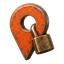
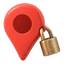
Add files via upload

diff --git a/index.html b/index.html
@@ -600,11 +600,24 @@ footer{padding-block:40px 48px; color:var(--muted); font-size:14px; border-top:1
 .d-ico{width:44px !important; height:44px !important; border-radius:13px !important}
 .d-tile .d-ico{width:54px !important; height:54px !important}
 .d-tile .d-ico .hz3d{width:48px; height:48px}
+
+
+
+/* ---- Colores universales (2-oct-2026): estrellas amarillas y pin rojo, siempre ---- */
+:root{--estrella:#FBBC04; --estrella-vacia:#DADCE0}
+@media (prefers-color-scheme: dark){:root:not([data-theme="light"]){--estrella-vacia:#4A443E}}
+:root[data-theme="dark"]{--estrella-vacia:#4A443E}
+.hz-est,.d-bigstars{color:var(--estrella)}
+.d-qm .hz{color:var(--estrella)}
+.d-stars button,.d-stars button .hz{color:var(--estrella-vacia)}
+.d-stars button.on,.d-stars button.on .hz{color:var(--estrella)}
+.d-stars button:hover .hz{transform:scale(1.08)}
+/* ---- fin colores universales ---- */
 </style>
 <script type="application/ld+json" id="hz-seo">{"@context":"https://schema.org","@graph":[{"@type":"WebSite","name":"Hazlo Ahora","url":"https://hazlochile.com/","inLanguage":"es-CL","publisher":{"@type":"Organization","name":"Hazlo Ahora","url":"https://hazlochile.com/"}},{"@type":"FAQPage","mainEntity":[{"@type":"Question","name":"¿Cuándo puedo usar Hazlo Ahora?","acceptedAnswer":{"@type":"Answer","text":"Estamos terminando las pruebas con usuarios reales. Partimos en el Gran Santiago con gásfiter, electricistas y cerrajeros, y después vamos sumando más oficios y el resto de Chile. Si te anotas, te avisamos antes que a nadie."}},{"@type":"Question","name":"¿Cuánto cuesta para el cliente?","acceptedAnswer":{"@type":"Answer","text":"Nada. Descargar la app, pedir y comparar precios es gratis. Pagas solo el trabajo que aceptaste, directo al profesional."}},{"@type":"Question","name":"¿Cómo sé que puedo confiar en quien llega a mi casa?","acceptedAnswer":{"@type":"Answer","text":"Porque lo conocemos antes que tú: cada profesional verifica su cédula con una selfie, presenta su certificado de antecedentes y sube fotos de trabajos reales de su oficio, y nuestro equipo lo revisa. En salud, cuidado de personas, gas y otros oficios sensibles pedimos además el título o la licencia. Antes de elegir ves sus estrellas, su presentación y fotos de sus trabajos."}},{"@type":"Question","name":"¿Quiénes están detrás de Hazlo Ahora?","acceptedAnswer":{"@type":"Answer","text":"Somos HAZLO AHORA SpA, una empresa chilena con sede en Santiago. Detrás de la app hay un equipo que revisa cada perfil, responde en soporte@hazlochile.com y sigue sumando oficios con lo que ustedes nos piden."}},{"@type":"Question","name":"¿Tengo que dar mi teléfono o mi dirección?","acceptedAnswer":{"@type":"Answer","text":"Tu teléfono nunca se comparte: todo se conversa por el chat de la app, que oculta números y correos. Tu dirección exacta la ve solo el profesional que aceptaste, y la ubicación en vivo se borra cuando termina el trabajo."}},{"@type":"Question","name":"¿Puedo agendar para otro día?","acceptedAnswer":{"@type":"Answer","text":"Sí. Todos los servicios se pueden pedir al tiro o agendados, hasta 30 días antes y a cualquier hora, también de noche: un coffee break a las 7 de la mañana o garzones para un cumpleaños hasta las 2 de la madrugada."}},{"@type":"Question","name":"¿Cómo pago? ¿Aceptan tarjeta?","acceptedAnswer":{"@type":"Answer","text":"Le pagas directo al profesional al terminar, en efectivo o con tarjeta. El pago con tarjeta dentro de la app viene más adelante."}},{"@type":"Question","name":"Soy profesional, ¿cuánto me cobra Hazlo Ahora?","acceptedAnswer":{"@type":"Answer","text":"Tus primeros 2 meses desde que te inscribes en la app, nada: es nuestra bienvenida. Después, un 10 % del trabajo, con IVA incluido, y solo cuando haces el trabajo. No hay mensualidad ni costo por inscribirte, y las propinas son 100 % tuyas. Todo el detalle está en Soporte."}},{"@type":"Question","name":"¿En qué celulares funciona?","acceptedAnswer":{"@type":"Answer","text":"En Android y iPhone. Son dos apps: Hazlo Ahora, para pedir servicios, y Hazlo Ahora Pro, para quienes trabajan."}}]}]}</script>
 </head>
 <body>
-<svg xmlns="http://www.w3.org/2000/svg" width="0" height="0" style="position:absolute" aria-hidden="true" focusable="false"><symbol id="hz-camara" viewBox="0 0 24 24"><g transform="translate(1.3 1.3)" style="fill:var(--hz-f,currentColor);stroke:none"><circle cx="12" cy="13.5" r="3.6"/></g><g style="fill:none;stroke:var(--hz-l,var(--ink,#1A1714));stroke-width:1.8;stroke-linecap:round;stroke-linejoin:round"><rect x="3" y="7" width="18" height="13" rx="2.5"/><path d="m8.5 7 1.3-2.5h4.4L15.5 7"/><circle cx="12" cy="13.5" r="3.6"/><path d="M17.6 10.2h.01"/></g></symbol><symbol id="hz-candado" viewBox="0 0 24 24"><g transform="translate(1.3 1.3)" style="fill:var(--hz-f,currentColor);stroke:none"><rect x="5.5" y="11" width="13" height="10" rx="2.2"/></g><g style="fill:none;stroke:var(--hz-l,var(--ink,#1A1714));stroke-width:1.8;stroke-linecap:round;stroke-linejoin:round"><path d="M8 11V8a4 4 0 0 1 8 0v3"/><rect x="5.5" y="11" width="13" height="10" rx="2.2"/><path d="M12 15v2.2"/></g></symbol><symbol id="hz-ubicacion" viewBox="0 0 24 24"><g transform="translate(1.3 1.3)" style="fill:var(--hz-f,currentColor);stroke:none"><path d="M12 21.5S5.5 15.2 5.5 10a6.5 6.5 0 0 1 13 0c0 5.2-6.5 11.5-6.5 11.5z"/></g><g style="fill:none;stroke:var(--hz-l,var(--ink,#1A1714));stroke-width:1.8;stroke-linecap:round;stroke-linejoin:round"><path d="M12 21.5S5.5 15.2 5.5 10a6.5 6.5 0 0 1 13 0c0 5.2-6.5 11.5-6.5 11.5z"/><circle cx="12" cy="10" r="2.4"/></g></symbol><symbol id="hz-buscar" viewBox="0 0 24 24"><g transform="translate(1.3 1.3)" style="fill:var(--hz-f,currentColor);stroke:none"><circle cx="10.5" cy="10.5" r="6.3"/></g><g style="fill:none;stroke:var(--hz-l,var(--ink,#1A1714));stroke-width:1.8;stroke-linecap:round;stroke-linejoin:round"><circle cx="10.5" cy="10.5" r="6.3"/><path d="m15.2 15.2 5.3 5.3"/></g></symbol><symbol id="hz-visto" viewBox="0 0 24 24"><g transform="translate(1.3 1.3)" style="fill:var(--hz-f,currentColor);stroke:none"><circle cx="12" cy="12" r="8.6"/></g><g style="fill:none;stroke:var(--hz-l,var(--ink,#1A1714));stroke-width:1.8;stroke-linecap:round;stroke-linejoin:round"><circle cx="12" cy="12" r="8.6"/><path d="m7.9 12.3 2.8 2.8 5.4-5.7"/></g></symbol><symbol id="hz-estrella" viewBox="0 0 24 24"><g transform="translate(1.3 1.3)" style="fill:var(--hz-f,currentColor);stroke:none"><path d="M12 3.3 14.6 8.7 20.5 9.4 16.1 13.4 17.3 19.3 12 16.4 6.7 19.3 7.9 13.4 3.5 9.4 9.4 8.7z"/></g><g style="fill:none;stroke:var(--hz-l,var(--ink,#1A1714));stroke-width:1.8;stroke-linecap:round;stroke-linejoin:round"><path d="M12 3.3 14.6 8.7 20.5 9.4 16.1 13.4 17.3 19.3 12 16.4 6.7 19.3 7.9 13.4 3.5 9.4 9.4 8.7z"/></g></symbol><symbol id="hz-tic" viewBox="0 0 24 24"><g transform="translate(1.3 1.3)" style="fill:var(--hz-f,currentColor);stroke:none"></g><g style="fill:none;stroke:var(--hz-l,var(--ink,#1A1714));stroke-width:1.8;stroke-linecap:round;stroke-linejoin:round"><path d="m5.5 12.6 4.1 4.1 8.9-9.3"/></g></symbol></svg>
+<svg xmlns="http://www.w3.org/2000/svg" width="0" height="0" style="position:absolute" aria-hidden="true" focusable="false"><symbol id="hz-camara" viewBox="0 0 24 24"><g transform="translate(1.3 1.3)" style="fill:var(--hz-f,currentColor);stroke:none"><circle cx="12" cy="13.5" r="3.6"/></g><g style="fill:none;stroke:var(--hz-l,var(--ink,#1A1714));stroke-width:1.8;stroke-linecap:round;stroke-linejoin:round"><rect x="3" y="7" width="18" height="13" rx="2.5"/><path d="m8.5 7 1.3-2.5h4.4L15.5 7"/><circle cx="12" cy="13.5" r="3.6"/><path d="M17.6 10.2h.01"/></g></symbol><symbol id="hz-candado" viewBox="0 0 24 24"><g transform="translate(1.3 1.3)" style="fill:var(--hz-f,currentColor);stroke:none"><rect x="5.5" y="11" width="13" height="10" rx="2.2"/></g><g style="fill:none;stroke:var(--hz-l,var(--ink,#1A1714));stroke-width:1.8;stroke-linecap:round;stroke-linejoin:round"><path d="M8 11V8a4 4 0 0 1 8 0v3"/><rect x="5.5" y="11" width="13" height="10" rx="2.2"/><path d="M12 15v2.2"/></g></symbol><symbol id="hz-ubicacion" viewBox="0 0 24 24"><g transform="translate(1.3 1.3)" style="fill:var(--hz-f,currentColor);stroke:none"><path d="M12 21.5S5.5 15.2 5.5 10a6.5 6.5 0 0 1 13 0c0 5.2-6.5 11.5-6.5 11.5z"/></g><g style="fill:none;stroke:var(--hz-l,var(--ink,#1A1714));stroke-width:1.8;stroke-linecap:round;stroke-linejoin:round"><path d="M12 21.5S5.5 15.2 5.5 10a6.5 6.5 0 0 1 13 0c0 5.2-6.5 11.5-6.5 11.5z"/><circle cx="12" cy="10" r="2.4"/></g></symbol><symbol id="hz-buscar" viewBox="0 0 24 24"><g transform="translate(1.3 1.3)" style="fill:var(--hz-f,currentColor);stroke:none"><circle cx="10.5" cy="10.5" r="6.3"/></g><g style="fill:none;stroke:var(--hz-l,var(--ink,#1A1714));stroke-width:1.8;stroke-linecap:round;stroke-linejoin:round"><circle cx="10.5" cy="10.5" r="6.3"/><path d="m15.2 15.2 5.3 5.3"/></g></symbol><symbol id="hz-visto" viewBox="0 0 24 24"><g transform="translate(1.3 1.3)" style="fill:var(--hz-f,currentColor);stroke:none"><circle cx="12" cy="12" r="8.6"/></g><g style="fill:none;stroke:var(--hz-l,var(--ink,#1A1714));stroke-width:1.8;stroke-linecap:round;stroke-linejoin:round"><circle cx="12" cy="12" r="8.6"/><path d="m7.9 12.3 2.8 2.8 5.4-5.7"/></g></symbol><symbol id="hz-estrella" viewBox="0 0 24 24"><g transform="translate(1.3 1.3)" style="fill:var(--hz-f,currentColor);stroke:none"><path d="M12 3.3 14.6 8.7 20.5 9.4 16.1 13.4 17.3 19.3 12 16.4 6.7 19.3 7.9 13.4 3.5 9.4 9.4 8.7z"/></g><g style="fill:none;stroke:var(--hz-l,var(--ink,#1A1714));stroke-width:1.8;stroke-linecap:round;stroke-linejoin:round"><path d="M12 3.3 14.6 8.7 20.5 9.4 16.1 13.4 17.3 19.3 12 16.4 6.7 19.3 7.9 13.4 3.5 9.4 9.4 8.7z"/></g></symbol><symbol id="hz-tic" viewBox="0 0 24 24"><g transform="translate(1.3 1.3)" style="fill:var(--hz-f,currentColor);stroke:none"></g><g style="fill:none;stroke:var(--hz-l,var(--ink,#1A1714));stroke-width:1.8;stroke-linecap:round;stroke-linejoin:round"><path d="m5.5 12.6 4.1 4.1 8.9-9.3"/></g></symbol><symbol id="hz-estrella-llena" viewBox="0 0 24 24"><path d="M12.00 2.70L14.70 9.18L21.70 9.75L16.37 14.32L18.00 21.15L12.00 17.50L6.00 21.15L7.63 14.32L2.30 9.75L9.30 9.18Z" fill="currentColor" stroke="currentColor" stroke-width="1.6" stroke-linejoin="round"/></symbol><symbol id="hz-pin" viewBox="0 0 24 24"><path d="M12 22.5C10.8 20.2 4.5 14.6 4.5 9a7.5 7.5 0 0 1 15 0c0 5.6-6.3 11.2-7.5 13.5z" fill="#EA4335" stroke="#C5221F" stroke-width=".8"/><circle cx="12" cy="9" r="2.9" fill="#B31412"/></symbol></svg>
 
 <header class="bar">
   <div class="wrap bar-in">
@@ -649,7 +662,7 @@ footer{padding-block:40px 48px; color:var(--muted); font-size:14px; border-top:1
           <div class="ask-f">
             <label for="p-comuna">¿Dónde?</label>
             <div class="ask-in">
-              <svg class="hz" width="19" height="19" aria-hidden="true" focusable="false"><use href="#hz-ubicacion"/></svg>
+              <svg class="hz" width="19" height="19" aria-hidden="true" focusable="false"><use href="#hz-pin"/></svg>
               <input id="p-comuna" type="text" placeholder="Tu comuna" maxlength="40" autocomplete="address-level2">
             </div>
           </div>
@@ -1106,7 +1119,7 @@ footer{padding-block:40px 48px; color:var(--muted); font-size:14px; border-top:1
   }
   function hzEstrellas(n, s) {
     var sp = document.createElement('span'); sp.className = 'hz-est';
-    for (var i = 0; i < n; i++) sp.appendChild(hzIco('estrella', s || 16));
+    for (var i = 0; i < n; i++) sp.appendChild(hzIco('estrella-llena', s || 16));
     return sp;
   }
   function el(tag, cls, txt) {
@@ -1503,7 +1516,7 @@ footer{padding-block:40px 48px; color:var(--muted); font-size:14px; border-top:1
     '<path class="m-calle" d="M0 30H300M0 78H300M0 126H300M52 0V150M142 0V150M232 0V150"/>' +
     '<path class="m-ruta" id="d-ruta" d="M18 126H142V78H232V30H272"/>' +
     '<path class="m-hecha" id="d-hecha" d="M18 126H142V78H232V30H272"/>' +
-    '<circle class="m-casa" cx="272" cy="30" r="9"/><circle cx="272" cy="30" r="3" fill="#fff"/>' +
+    '<g transform="translate(272 30) scale(1.15) translate(-12 -22.5)"><ellipse cx="12" cy="22.6" rx="3.2" ry="1.1" fill="rgba(0,0,0,.18)"/><path d="M12 22.5C10.8 20.2 4.5 14.6 4.5 9a7.5 7.5 0 0 1 15 0c0 5.6-6.3 11.2-7.5 13.5z" fill="#EA4335" stroke="#C5221F" stroke-width=".8"/><circle cx="12" cy="9" r="2.9" fill="#B31412"/></g>' +
     '<g id="d-mk"><circle class="m-halo" r="16"/><circle class="m-yo" r="8"/></g></svg>';
   var MARCA = '<svg width="14" height="14" viewBox="0 0 64 64" aria-hidden="true"><path d="M35 13 19 35h11l-2 16 17-23H33z" fill="#fff"/></svg>';
   var LUPA = '<svg class="hz" width="18" height="18" aria-hidden="true" focusable="false"><use href="#hz-buscar"/></svg>';
@@ -1623,7 +1636,7 @@ footer{padding-block:40px 48px; color:var(--muted); font-size:14px; border-top:1
     return h('article', { class: 'd-q', 'aria-label': 'Cotización de ' + q.nombre }, [
       h('div', { class: 'd-qtop' }, [
         h('span', { class: 'd-av', 'aria-hidden': 'true' }, [q.ini]),
-        h('div', null, [h('p', { class: 'd-qn' }, [q.nombre]), h('p', { class: 'd-qm' }, (q.st ? [hzIco('estrella', 13), q.st + ' (' + q.tr + ' trabajos)'] : ['Nuevo en Hazlo Ahora']))]),
+        h('div', null, [h('p', { class: 'd-qn' }, [q.nombre]), h('p', { class: 'd-qm' }, (q.st ? [hzIco('estrella-llena', 13), q.st + ' (' + q.tr + ' trabajos)'] : ['Nuevo en Hazlo Ahora']))]),
         h('p', { class: 'd-amt' }, [plata(q.precio), h('small', null, [cuando])])
       ]),
       h('div', { class: 'd-seals' }, sellos.map(function (x) { return h('span', { class: 'd-seal' }, [hzIco('visto', 15), x]); })),
@@ -1859,7 +1872,7 @@ footer{padding-block:40px 48px; color:var(--muted); font-size:14px; border-top:1
           h('div', { class: 'd-stars', role: 'group', 'aria-labelledby': 'd-st-l' }, [1, 2, 3, 4, 5].map(function (n) {
             return h('button', { type: 'button', class: n <= D.estrellas ? 'on' : '', 'aria-pressed': String(n === D.estrellas),
               'aria-label': n + (n === 1 ? ' estrella' : ' estrellas'), 'data-k': 's' + n,
-              onclick: function () { D.estrellas = n; D.faltaEstrellas = false; render(); } }, [hzIco('estrella', 30)]);
+              onclick: function () { D.estrellas = n; D.faltaEstrellas = false; render(); } }, [hzIco('estrella-llena', 30)]);
           })),
           D.faltaEstrellas ? h('p', { class: 'd-err', role: 'alert' }, ['Elige de 1 a 5 estrellas.']) : null
         ],
@@ -1944,7 +1957,7 @@ footer{padding-block:40px 48px; color:var(--muted); font-size:14px; border-top:1
     '<path class="m-calle" d="M0 30H300M0 78H300M0 126H300M52 0V150M142 0V150M232 0V150"/>' +
     '<path class="m-ruta" id="pd-ruta" d="M28 30H142V78H232V126H274"/>' +
     '<path class="m-hecha" id="pd-hecha" d="M28 30H142V78H232V126H274"/>' +
-    '<circle class="m-casa" cx="274" cy="126" r="9"/><circle cx="274" cy="126" r="3" fill="#fff"/>' +
+    '<g transform="translate(274 126) scale(1.15) translate(-12 -22.5)"><ellipse cx="12" cy="22.6" rx="3.2" ry="1.1" fill="rgba(0,0,0,.18)"/><path d="M12 22.5C10.8 20.2 4.5 14.6 4.5 9a7.5 7.5 0 0 1 15 0c0 5.6-6.3 11.2-7.5 13.5z" fill="#EA4335" stroke="#C5221F" stroke-width=".8"/><circle cx="12" cy="9" r="2.9" fill="#B31412"/></g>' +
     '<g id="pd-mk"><circle class="m-halo" r="16"/><circle class="m-yo" r="8"/></g></svg>';
 
   function servicioPro(c) {
@@ -2130,7 +2143,7 @@ footer{padding-block:40px 48px; color:var(--muted); font-size:14px; border-top:1
             h('span', null, [nom() + ' está comparando cotizaciones. Ve tus estrellas, tu presentación y fotos de tus trabajos.'])]));
         } else {
           cuerpo.unshift(h('div', { class: 'd-okc', 'aria-hidden': 'true' }, [hzIco('visto', 60)]));
-          cuerpo.push(h('div', { class: 'd-lock d-open' }, [hzIco('ubicacion', 18),
+          cuerpo.push(h('div', { class: 'd-lock d-open' }, [hzIco('pin', 18),
             h('span', null, [h('b', null, ['Ahora ves la dirección exacta en ' + c.com + '. ']), 'Pueden conversar por el chat de la app, sin dar teléfonos.'])]));
           cuerpo.push(h('p', { class: 'd-note' }, ['Si ' + nom() + ' cancela después de que marcas «Voy en camino», recibes $2.000 por tu tiempo.']));
         }

diff --git a/pro/index.html b/pro/index.html
@@ -620,11 +620,24 @@ footer{padding-block:40px 48px; color:var(--muted); font-size:14px; border-top:1
 .sii{display:flex; gap:14px; align-items:center; background:var(--card); border:1.5px solid var(--line); border-radius:20px; padding:16px 18px; margin-top:16px}
 .sii img{flex:none}
 .sii p{font-size:15px; color:var(--ink-soft)} .sii p a{color:var(--brand-dark); font-weight:700}
+
+
+
+/* ---- Colores universales (2-oct-2026): estrellas amarillas y pin rojo, siempre ---- */
+:root{--estrella:#FBBC04; --estrella-vacia:#DADCE0}
+@media (prefers-color-scheme: dark){:root:not([data-theme="light"]){--estrella-vacia:#4A443E}}
+:root[data-theme="dark"]{--estrella-vacia:#4A443E}
+.hz-est,.d-bigstars{color:var(--estrella)}
+.d-qm .hz{color:var(--estrella)}
+.d-stars button,.d-stars button .hz{color:var(--estrella-vacia)}
+.d-stars button.on,.d-stars button.on .hz{color:var(--estrella)}
+.d-stars button:hover .hz{transform:scale(1.08)}
+/* ---- fin colores universales ---- */
 </style>
 <script type="application/ld+json" id="hz-seo">{"@context":"https://schema.org","@graph":[{"@type":"FAQPage","mainEntity":[{"@type":"Question","name":"¿Cuánto me cobra Hazlo Ahora?","acceptedAnswer":{"@type":"Answer","text":"Nada los primeros 2 meses desde que te inscribes. Después, el 10 % de cada trabajo hecho, con el IVA incluido en ese 10 %. No hay mensualidad ni costo de inscripción: si un mes no trabajas, no pagas."}},{"@type":"Question","name":"¿Cómo y cuándo cobro?","acceptedAnswer":{"@type":"Answer","text":"Directo al cliente, al terminar el trabajo, en efectivo o con tarjeta. El precio es el que aceptó en la app; si hubo extras, los aprobó antes. Las propinas son 100 % tuyas."}},{"@type":"Question","name":"¿Cómo se paga la comisión?","acceptedAnswer":{"@type":"Answer","text":"Se anota en tu saldo dentro de la app cuando marcas «Voy en camino», y la pagas por transferencia cuando quieras, hasta un tope. Si el cliente cancela, se te devuelve. Antes de cada cotización ves cuánto cobras, cuánto es la comisión y cuánto recibes."}},{"@type":"Question","name":"¿Tengo que estar conectado todo el día?","acceptedAnswer":{"@type":"Answer","text":"No. Marcas cuándo estás disponible y puedes pausar los avisos por unas horas, hasta mañana o una semana. Y cada trabajo lo tomas solo si quieres: nadie te asigna nada."}},{"@type":"Question","name":"¿Qué pasa si el cliente cancela?","acceptedAnswer":{"@type":"Answer","text":"Si cancela antes de que salgas, no pasa nada y la comisión se te devuelve. Si cancela cuando ya vas en camino, recibes $2.000; si ya llegaste o estás trabajando, $5.000. Ese cargo es completo para ti."}},{"@type":"Question","name":"¿Puedo ofrecer varios oficios?","acceptedAnswer":{"@type":"Answer","text":"Sí. Para cada oficio subes fotos de trabajos tuyos (las revisamos una por una) y, si el oficio exige título, licencia o documento, también ese documento. Los clientes ven tus trabajos del oficio que están pidiendo."}},{"@type":"Question","name":"¿Qué datos míos ve el cliente?","acceptedAnswer":{"@type":"Answer","text":"Tu nombre, tu foto, tus estrellas, tu presentación y las fotos de trabajos que aprobamos. Nunca tu teléfono, tu correo ni tu dirección. Toda la conversación va por el chat de la app."}},{"@type":"Question","name":"¿Y si tengo un equipo o más de un vehículo?","acceptedAnswer":{"@type":"Answer","text":"Puedes decir cuántos trabajos atiendes a la misma hora y tomar varios. Hazlo Ahora sirve igual para una persona que trabaja sola que para un pequeño negocio."}},{"@type":"Question","name":"¿Necesito tener iniciación de actividades o dar boleta?","acceptedAnswer":{"@type":"Answer","text":"Cada profesional es independiente y responsable de sus impuestos; Hazlo Ahora no te exige boleta para trabajar. Si quieres formalizarte, tenemos una guía paso a paso para iniciar actividades en el SII."}},{"@type":"Question","name":"¿Cuándo parte y dónde?","acceptedAnswer":{"@type":"Answer","text":"Estamos terminando las pruebas con profesionales reales. Partimos en el Gran Santiago con gásfiter, electricistas y cerrajeros, y después vamos sumando oficios y comunas. Si te anotas, te escribimos apenas te toque."}}]}]}</script>
 </head>
 <body data-side="prestador">
-<svg xmlns="http://www.w3.org/2000/svg" width="0" height="0" style="position:absolute" aria-hidden="true" focusable="false"><symbol id="hz-camara" viewBox="0 0 24 24"><g transform="translate(1.3 1.3)" style="fill:var(--hz-f,currentColor);stroke:none"><circle cx="12" cy="13.5" r="3.6"/></g><g style="fill:none;stroke:var(--hz-l,var(--ink,#1A1714));stroke-width:1.8;stroke-linecap:round;stroke-linejoin:round"><rect x="3" y="7" width="18" height="13" rx="2.5"/><path d="m8.5 7 1.3-2.5h4.4L15.5 7"/><circle cx="12" cy="13.5" r="3.6"/><path d="M17.6 10.2h.01"/></g></symbol><symbol id="hz-candado" viewBox="0 0 24 24"><g transform="translate(1.3 1.3)" style="fill:var(--hz-f,currentColor);stroke:none"><rect x="5.5" y="11" width="13" height="10" rx="2.2"/></g><g style="fill:none;stroke:var(--hz-l,var(--ink,#1A1714));stroke-width:1.8;stroke-linecap:round;stroke-linejoin:round"><path d="M8 11V8a4 4 0 0 1 8 0v3"/><rect x="5.5" y="11" width="13" height="10" rx="2.2"/><path d="M12 15v2.2"/></g></symbol><symbol id="hz-ubicacion" viewBox="0 0 24 24"><g transform="translate(1.3 1.3)" style="fill:var(--hz-f,currentColor);stroke:none"><path d="M12 21.5S5.5 15.2 5.5 10a6.5 6.5 0 0 1 13 0c0 5.2-6.5 11.5-6.5 11.5z"/></g><g style="fill:none;stroke:var(--hz-l,var(--ink,#1A1714));stroke-width:1.8;stroke-linecap:round;stroke-linejoin:round"><path d="M12 21.5S5.5 15.2 5.5 10a6.5 6.5 0 0 1 13 0c0 5.2-6.5 11.5-6.5 11.5z"/><circle cx="12" cy="10" r="2.4"/></g></symbol><symbol id="hz-buscar" viewBox="0 0 24 24"><g transform="translate(1.3 1.3)" style="fill:var(--hz-f,currentColor);stroke:none"><circle cx="10.5" cy="10.5" r="6.3"/></g><g style="fill:none;stroke:var(--hz-l,var(--ink,#1A1714));stroke-width:1.8;stroke-linecap:round;stroke-linejoin:round"><circle cx="10.5" cy="10.5" r="6.3"/><path d="m15.2 15.2 5.3 5.3"/></g></symbol><symbol id="hz-visto" viewBox="0 0 24 24"><g transform="translate(1.3 1.3)" style="fill:var(--hz-f,currentColor);stroke:none"><circle cx="12" cy="12" r="8.6"/></g><g style="fill:none;stroke:var(--hz-l,var(--ink,#1A1714));stroke-width:1.8;stroke-linecap:round;stroke-linejoin:round"><circle cx="12" cy="12" r="8.6"/><path d="m7.9 12.3 2.8 2.8 5.4-5.7"/></g></symbol><symbol id="hz-estrella" viewBox="0 0 24 24"><g transform="translate(1.3 1.3)" style="fill:var(--hz-f,currentColor);stroke:none"><path d="M12 3.3 14.6 8.7 20.5 9.4 16.1 13.4 17.3 19.3 12 16.4 6.7 19.3 7.9 13.4 3.5 9.4 9.4 8.7z"/></g><g style="fill:none;stroke:var(--hz-l,var(--ink,#1A1714));stroke-width:1.8;stroke-linecap:round;stroke-linejoin:round"><path d="M12 3.3 14.6 8.7 20.5 9.4 16.1 13.4 17.3 19.3 12 16.4 6.7 19.3 7.9 13.4 3.5 9.4 9.4 8.7z"/></g></symbol><symbol id="hz-tic" viewBox="0 0 24 24"><g transform="translate(1.3 1.3)" style="fill:var(--hz-f,currentColor);stroke:none"></g><g style="fill:none;stroke:var(--hz-l,var(--ink,#1A1714));stroke-width:1.8;stroke-linecap:round;stroke-linejoin:round"><path d="m5.5 12.6 4.1 4.1 8.9-9.3"/></g></symbol></svg>
+<svg xmlns="http://www.w3.org/2000/svg" width="0" height="0" style="position:absolute" aria-hidden="true" focusable="false"><symbol id="hz-camara" viewBox="0 0 24 24"><g transform="translate(1.3 1.3)" style="fill:var(--hz-f,currentColor);stroke:none"><circle cx="12" cy="13.5" r="3.6"/></g><g style="fill:none;stroke:var(--hz-l,var(--ink,#1A1714));stroke-width:1.8;stroke-linecap:round;stroke-linejoin:round"><rect x="3" y="7" width="18" height="13" rx="2.5"/><path d="m8.5 7 1.3-2.5h4.4L15.5 7"/><circle cx="12" cy="13.5" r="3.6"/><path d="M17.6 10.2h.01"/></g></symbol><symbol id="hz-candado" viewBox="0 0 24 24"><g transform="translate(1.3 1.3)" style="fill:var(--hz-f,currentColor);stroke:none"><rect x="5.5" y="11" width="13" height="10" rx="2.2"/></g><g style="fill:none;stroke:var(--hz-l,var(--ink,#1A1714));stroke-width:1.8;stroke-linecap:round;stroke-linejoin:round"><path d="M8 11V8a4 4 0 0 1 8 0v3"/><rect x="5.5" y="11" width="13" height="10" rx="2.2"/><path d="M12 15v2.2"/></g></symbol><symbol id="hz-ubicacion" viewBox="0 0 24 24"><g transform="translate(1.3 1.3)" style="fill:var(--hz-f,currentColor);stroke:none"><path d="M12 21.5S5.5 15.2 5.5 10a6.5 6.5 0 0 1 13 0c0 5.2-6.5 11.5-6.5 11.5z"/></g><g style="fill:none;stroke:var(--hz-l,var(--ink,#1A1714));stroke-width:1.8;stroke-linecap:round;stroke-linejoin:round"><path d="M12 21.5S5.5 15.2 5.5 10a6.5 6.5 0 0 1 13 0c0 5.2-6.5 11.5-6.5 11.5z"/><circle cx="12" cy="10" r="2.4"/></g></symbol><symbol id="hz-buscar" viewBox="0 0 24 24"><g transform="translate(1.3 1.3)" style="fill:var(--hz-f,currentColor);stroke:none"><circle cx="10.5" cy="10.5" r="6.3"/></g><g style="fill:none;stroke:var(--hz-l,var(--ink,#1A1714));stroke-width:1.8;stroke-linecap:round;stroke-linejoin:round"><circle cx="10.5" cy="10.5" r="6.3"/><path d="m15.2 15.2 5.3 5.3"/></g></symbol><symbol id="hz-visto" viewBox="0 0 24 24"><g transform="translate(1.3 1.3)" style="fill:var(--hz-f,currentColor);stroke:none"><circle cx="12" cy="12" r="8.6"/></g><g style="fill:none;stroke:var(--hz-l,var(--ink,#1A1714));stroke-width:1.8;stroke-linecap:round;stroke-linejoin:round"><circle cx="12" cy="12" r="8.6"/><path d="m7.9 12.3 2.8 2.8 5.4-5.7"/></g></symbol><symbol id="hz-estrella" viewBox="0 0 24 24"><g transform="translate(1.3 1.3)" style="fill:var(--hz-f,currentColor);stroke:none"><path d="M12 3.3 14.6 8.7 20.5 9.4 16.1 13.4 17.3 19.3 12 16.4 6.7 19.3 7.9 13.4 3.5 9.4 9.4 8.7z"/></g><g style="fill:none;stroke:var(--hz-l,var(--ink,#1A1714));stroke-width:1.8;stroke-linecap:round;stroke-linejoin:round"><path d="M12 3.3 14.6 8.7 20.5 9.4 16.1 13.4 17.3 19.3 12 16.4 6.7 19.3 7.9 13.4 3.5 9.4 9.4 8.7z"/></g></symbol><symbol id="hz-tic" viewBox="0 0 24 24"><g transform="translate(1.3 1.3)" style="fill:var(--hz-f,currentColor);stroke:none"></g><g style="fill:none;stroke:var(--hz-l,var(--ink,#1A1714));stroke-width:1.8;stroke-linecap:round;stroke-linejoin:round"><path d="m5.5 12.6 4.1 4.1 8.9-9.3"/></g></symbol><symbol id="hz-estrella-llena" viewBox="0 0 24 24"><path d="M12.00 2.70L14.70 9.18L21.70 9.75L16.37 14.32L18.00 21.15L12.00 17.50L6.00 21.15L7.63 14.32L2.30 9.75L9.30 9.18Z" fill="currentColor" stroke="currentColor" stroke-width="1.6" stroke-linejoin="round"/></symbol><symbol id="hz-pin" viewBox="0 0 24 24"><path d="M12 22.5C10.8 20.2 4.5 14.6 4.5 9a7.5 7.5 0 0 1 15 0c0 5.6-6.3 11.2-7.5 13.5z" fill="#EA4335" stroke="#C5221F" stroke-width=".8"/><circle cx="12" cy="9" r="2.9" fill="#B31412"/></symbol></svg>
 <header class="bar">
   <div class="wrap bar-in">
     <a class="logo" href="/" aria-label="Hazlo Ahora, inicio">
@@ -1088,7 +1101,7 @@ footer{padding-block:40px 48px; color:var(--muted); font-size:14px; border-top:1
   }
   function hzEstrellas(n, s) {
     var sp = document.createElement('span'); sp.className = 'hz-est';
-    for (var i = 0; i < n; i++) sp.appendChild(hzIco('estrella', s || 16));
+    for (var i = 0; i < n; i++) sp.appendChild(hzIco('estrella-llena', s || 16));
     return sp;
   }
   function el(tag, cls, txt) {
@@ -1485,7 +1498,7 @@ footer{padding-block:40px 48px; color:var(--muted); font-size:14px; border-top:1
     '<path class="m-calle" d="M0 30H300M0 78H300M0 126H300M52 0V150M142 0V150M232 0V150"/>' +
     '<path class="m-ruta" id="d-ruta" d="M18 126H142V78H232V30H272"/>' +
     '<path class="m-hecha" id="d-hecha" d="M18 126H142V78H232V30H272"/>' +
-    '<circle class="m-casa" cx="272" cy="30" r="9"/><circle cx="272" cy="30" r="3" fill="#fff"/>' +
+    '<g transform="translate(272 30) scale(1.15) translate(-12 -22.5)"><ellipse cx="12" cy="22.6" rx="3.2" ry="1.1" fill="rgba(0,0,0,.18)"/><path d="M12 22.5C10.8 20.2 4.5 14.6 4.5 9a7.5 7.5 0 0 1 15 0c0 5.6-6.3 11.2-7.5 13.5z" fill="#EA4335" stroke="#C5221F" stroke-width=".8"/><circle cx="12" cy="9" r="2.9" fill="#B31412"/></g>' +
     '<g id="d-mk"><circle class="m-halo" r="16"/><circle class="m-yo" r="8"/></g></svg>';
   var MARCA = '<svg width="14" height="14" viewBox="0 0 64 64" aria-hidden="true"><path d="M35 13 19 35h11l-2 16 17-23H33z" fill="#fff"/></svg>';
   var LUPA = '<svg class="hz" width="18" height="18" aria-hidden="true" focusable="false"><use href="#hz-buscar"/></svg>';
@@ -1605,7 +1618,7 @@ footer{padding-block:40px 48px; color:var(--muted); font-size:14px; border-top:1
     return h('article', { class: 'd-q', 'aria-label': 'Cotización de ' + q.nombre }, [
       h('div', { class: 'd-qtop' }, [
         h('span', { class: 'd-av', 'aria-hidden': 'true' }, [q.ini]),
-        h('div', null, [h('p', { class: 'd-qn' }, [q.nombre]), h('p', { class: 'd-qm' }, (q.st ? [hzIco('estrella', 13), q.st + ' (' + q.tr + ' trabajos)'] : ['Nuevo en Hazlo Ahora']))]),
+        h('div', null, [h('p', { class: 'd-qn' }, [q.nombre]), h('p', { class: 'd-qm' }, (q.st ? [hzIco('estrella-llena', 13), q.st + ' (' + q.tr + ' trabajos)'] : ['Nuevo en Hazlo Ahora']))]),
         h('p', { class: 'd-amt' }, [plata(q.precio), h('small', null, [cuando])])
       ]),
       h('div', { class: 'd-seals' }, sellos.map(function (x) { return h('span', { class: 'd-seal' }, [hzIco('visto', 15), x]); })),
@@ -1841,7 +1854,7 @@ footer{padding-block:40px 48px; color:var(--muted); font-size:14px; border-top:1
           h('div', { class: 'd-stars', role: 'group', 'aria-labelledby': 'd-st-l' }, [1, 2, 3, 4, 5].map(function (n) {
             return h('button', { type: 'button', class: n <= D.estrellas ? 'on' : '', 'aria-pressed': String(n === D.estrellas),
               'aria-label': n + (n === 1 ? ' estrella' : ' estrellas'), 'data-k': 's' + n,
-              onclick: function () { D.estrellas = n; D.faltaEstrellas = false; render(); } }, [hzIco('estrella', 30)]);
+              onclick: function () { D.estrellas = n; D.faltaEstrellas = false; render(); } }, [hzIco('estrella-llena', 30)]);
           })),
           D.faltaEstrellas ? h('p', { class: 'd-err', role: 'alert' }, ['Elige de 1 a 5 estrellas.']) : null
         ],
@@ -1926,7 +1939,7 @@ footer{padding-block:40px 48px; color:var(--muted); font-size:14px; border-top:1
     '<path class="m-calle" d="M0 30H300M0 78H300M0 126H300M52 0V150M142 0V150M232 0V150"/>' +
     '<path class="m-ruta" id="pd-ruta" d="M28 30H142V78H232V126H274"/>' +
     '<path class="m-hecha" id="pd-hecha" d="M28 30H142V78H232V126H274"/>' +
-    '<circle class="m-casa" cx="274" cy="126" r="9"/><circle cx="274" cy="126" r="3" fill="#fff"/>' +
+    '<g transform="translate(274 126) scale(1.15) translate(-12 -22.5)"><ellipse cx="12" cy="22.6" rx="3.2" ry="1.1" fill="rgba(0,0,0,.18)"/><path d="M12 22.5C10.8 20.2 4.5 14.6 4.5 9a7.5 7.5 0 0 1 15 0c0 5.6-6.3 11.2-7.5 13.5z" fill="#EA4335" stroke="#C5221F" stroke-width=".8"/><circle cx="12" cy="9" r="2.9" fill="#B31412"/></g>' +
     '<g id="pd-mk"><circle class="m-halo" r="16"/><circle class="m-yo" r="8"/></g></svg>';
 
   function servicioPro(c) {
@@ -2112,7 +2125,7 @@ footer{padding-block:40px 48px; color:var(--muted); font-size:14px; border-top:1
             h('span', null, [nom() + ' está comparando cotizaciones. Ve tus estrellas, tu presentación y fotos de tus trabajos.'])]));
         } else {
           cuerpo.unshift(h('div', { class: 'd-okc', 'aria-hidden': 'true' }, [hzIco('visto', 60)]));
-          cuerpo.push(h('div', { class: 'd-lock d-open' }, [hzIco('ubicacion', 18),
+          cuerpo.push(h('div', { class: 'd-lock d-open' }, [hzIco('pin', 18),
             h('span', null, [h('b', null, ['Ahora ves la dirección exacta en ' + c.com + '. ']), 'Pueden conversar por el chat de la app, sin dar teléfonos.'])]));
           cuerpo.push(h('p', { class: 'd-note' }, ['Si ' + nom() + ' cancela después de que marcas «Voy en camino», recibes $2.000 por tu tiempo.']));
         }
